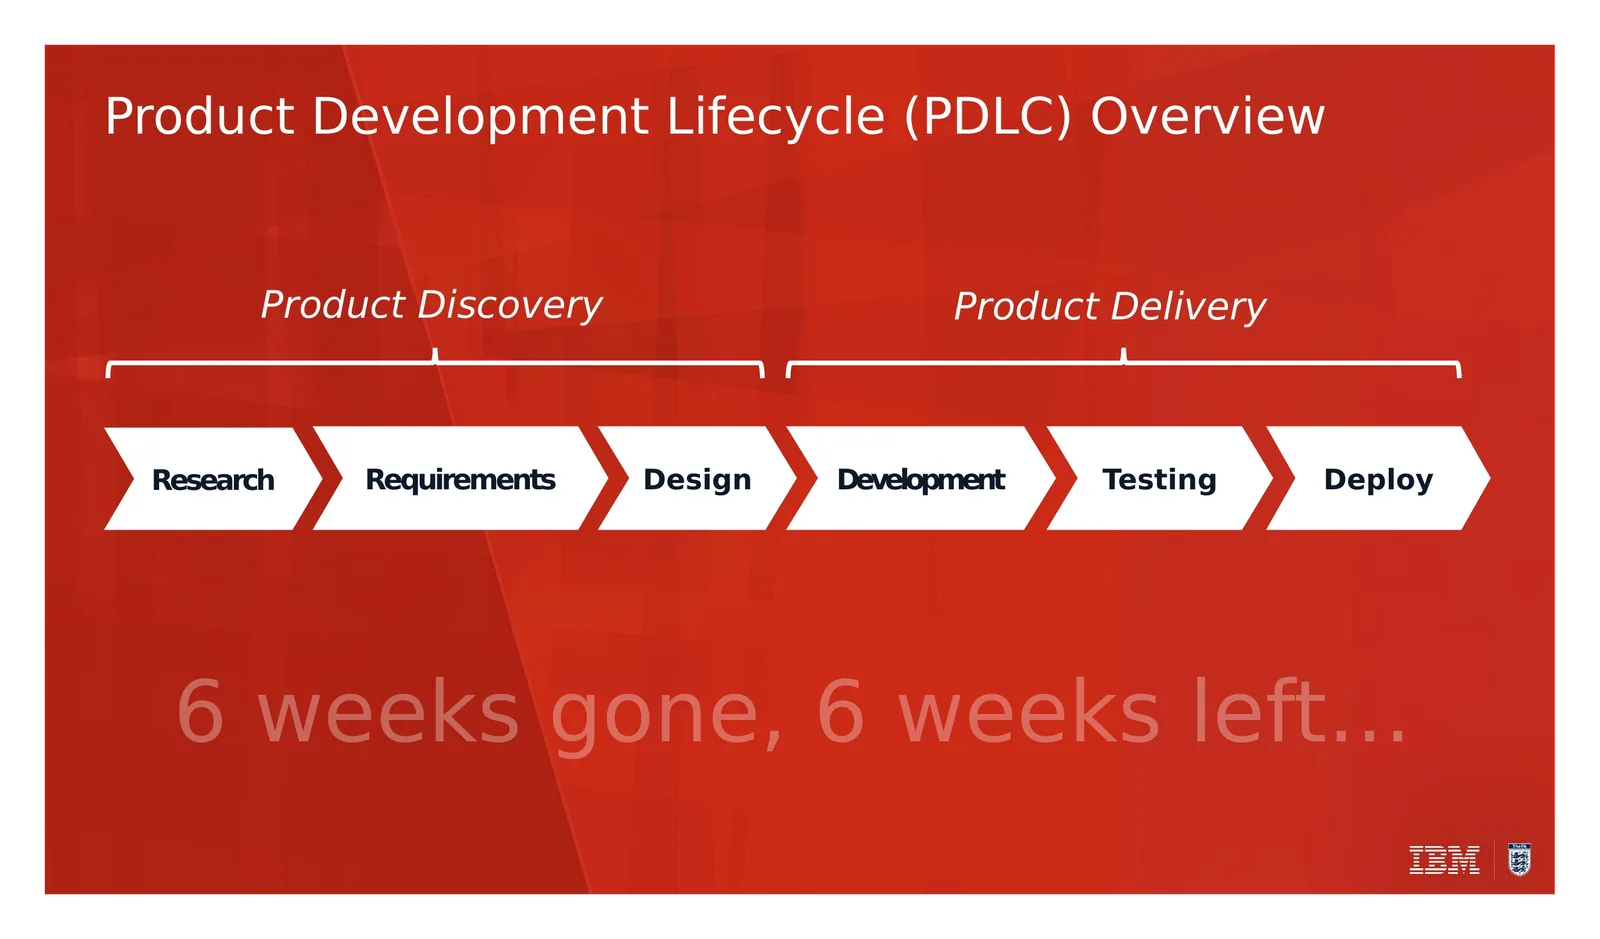
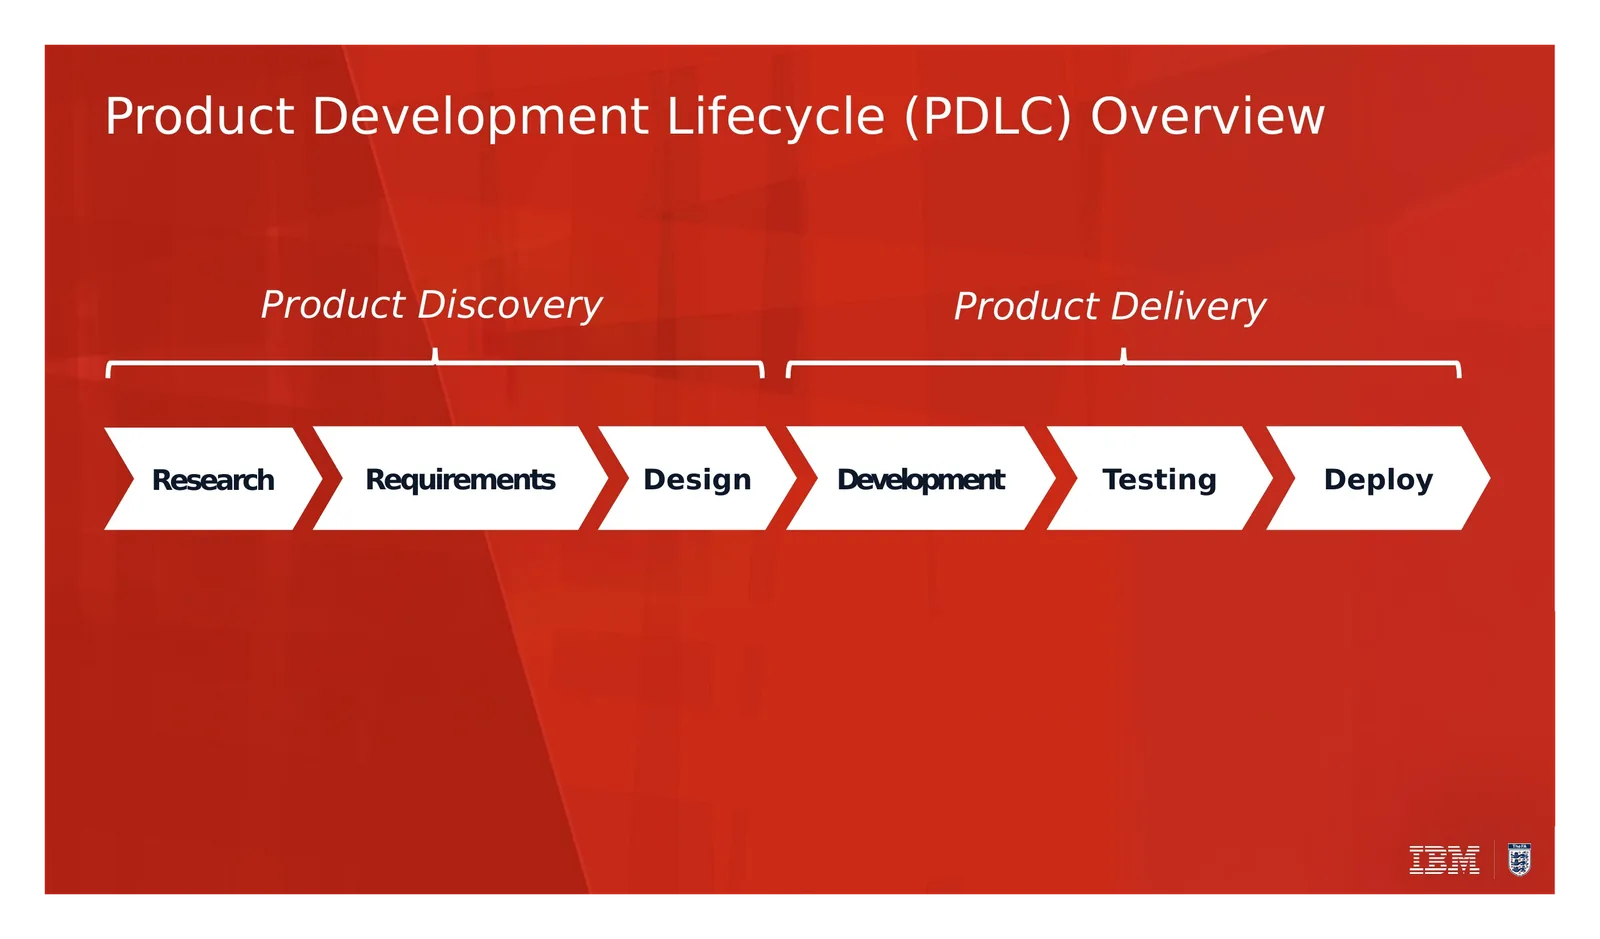
Edit the England Discovery and Approach copy, clean the PDLC slide
- Discovery: drop "and do it well", "keep fans in its own app", and
  the text-to-visual sentence reworded without its closing clause.
- Approach: drop the mock-data paragraph. The wireframe now closes
  Approach after the features paragraph, and the lifecycle gallery moves
  up one with Decisions.
- The PDLC overview slide has its "6 weeks gone, 6 weeks left" caption
  painted out, each side of the background's diagonal edge rebuilt from
  its own pixels so the edge stays sharp.

Changed region(s): [[0.0938, 0.7103, 0.875, 0.803]]

diff --git a/lib/private/case-studies.ts b/lib/private/case-studies.ts
@@ -62,11 +62,10 @@ const privateContent: Record<string, PrivateContent> = {
     date: "Two deliverables in twelve weeks. A toolkit for designing fan products faster, and the England app features proving it worked.",
     body: [
       "The project set out to show what IBM's AI technology could do inside the FA's England football app, measured on fan engagement, retention and commercial outcomes. I was the experience designer on a team of five, alongside a developer, data scientist, business analyst and data analyst, over twelve weeks split between research and delivery.",
-      "I audited the England app against its competitors. Most compete on live data, better stats, results and player detail during a match, and do it well.",
-      "What the FA has is an ecosystem of content strong enough to keep a fan in its own app, and data straight from the pitch that others can't match for accuracy or trust. We used fan personas to decide which features to prioritise around those strengths. Most of that content was text. The key was turning it into visual information, stats for each match and a card for each player, and that decided the two features.",
+      "I audited the England app against its competitors. Most compete on live data, better stats, results and player detail during a match.",
+      "What the FA has is an ecosystem of content strong enough to keep fans in its own app, and data straight from the pitch that others can't match for accuracy or trust. We used fan personas to decide which features to prioritise around those strengths. The most important content the FA had was presented in text formats. The key was turning it into visual information, stats for each match and a card for each player.",
       "Halfway through, the brief changed. What began as building AI features for the app became two things at once. We had to build a reusable agentic toolkit for researching, designing and delivering digital fan products, without losing human oversight. The FA work became the case study proving it worked. I wrote code for some of those agents, including the ones that synthesised research and generated design options.",
       "On the product half I designed two features. A live match centre carries a fan through the game across three tabs: a timeline of key events; a stats panel covering possession, momentum and more; and both teams' lineups. The watsonx powered insights sit in the timeline, with polls and predictions fans take part in as the game runs. A players page gives a reference card for each player to use before, during or after.",
-      "The prototype ran on mock data, so what we demonstrated was the experience rather than the integration.",
       "The brief called for live match data, and the obvious move was to compete on how much of it we could show. That meant fighting on the one front where the FA holds no advantage. We used the live data for participation and insight instead, leaning on what only the FA has.",
       "Building the toolkit and the features at the same time was the harder problem. Each risked bending the other out of shape, so we reworked the project to make the FA features the output of the toolkit rather than a separate track.",
       "IBM leadership were very happy with the final presentation. The work has been handed to another team to continue, with a possibility IBM packages it up and takes it to clients.",
@@ -74,7 +73,7 @@ const privateContent: Record<string, PrivateContent> = {
       "The research was done before the brief changed, so all of it pointed at the app. We shaped the toolkit around a traditional consulting product development lifecycle rather than around how our own teams work, and that's the gap I'd close.",
     ],
     sectionTitles: ["Context", "Discovery", "Approach", "Decisions", "Outcome", "Reflection"],
-    sectionLengths: [1, 2, 3, 2, 2, 1],
+    sectionLengths: [1, 2, 2, 2, 2, 1],
     items: [
       { title: "Context", description: "A twelve-week IBM project to show what its AI could do inside the FA's England app." },
       { title: "Insight", description: "The FA's content was rich but mostly text; making it visual gave fans a reason to stay." },
@@ -94,19 +93,21 @@ const privateContent: Record<string, PrivateContent> = {
         privateImg("england-football-app", "existing-app-05", "England+ member benefits listed as bullet points, above an embedded YouTube video."),
         privateImg("england-football-app", "existing-app-06", "Ticket sale dates, prices and concessions set out as text."),
       ] },
-      // Closing Approach, straight after "The prototype ran on mock data": the
-      // wireframe is that prototype, its live score made up. The finished
-      // screens are the cover, so they are not repeated here.
-      { id: "wireframe", title: "Hi-fi wireframe of the matches tab", afterParagraph: 5, items: [
+      // Closing Approach, straight after the paragraph describing the match
+      // centre, which this screen leads into. The finished screens are the
+      // cover, so they are not repeated here.
+      { id: "wireframe", title: "Hi-fi wireframe of the matches tab", afterParagraph: 4, items: [
         privateImg("england-football-app", "wireframe-01", "Hi-fi wireframe of the matches tab: a live France v England score card leading into the match centre, above upcoming fixtures."),
       ] },
       // The lifecycle the toolkit was designed from, closing Decisions, whose
       // last paragraph makes the features the toolkit's output. In order: the
-      // consulting journey (the gap Reflection names), the halfway point where
-      // the brief changed, and where AI could join each stage.
-      { id: "lifecycle", title: "The lifecycle behind the toolkit", afterParagraph: 7, items: [
+      // consulting journey (the gap Reflection names), the lifecycle split into
+      // discovery and delivery, and where AI could join each stage. The second
+      // slide's "6 weeks gone, 6 weeks left" caption was painted out of the
+      // source before processing.
+      { id: "lifecycle", title: "The lifecycle behind the toolkit", afterParagraph: 6, items: [
         privateImg("england-football-app", "lifecycle-01", "Slide, The long journey of a consultant: a timeline from client brief through understanding the client, research, personas and requirements to design and development."),
-        privateImg("england-football-app", "lifecycle-02", "Slide, Product development lifecycle overview: research, requirements and design as discovery, then development, testing and deploy as delivery, captioned 6 weeks gone, 6 weeks left."),
+        privateImg("england-football-app", "lifecycle-02", "Slide, Product development lifecycle overview: research, requirements and design as discovery, then development, testing and deploy as delivery."),
         privateImg("england-football-app", "lifecycle-03", "Slide, AI assistants and agents across the lifecycle: eight stages from market analysis and benchmarking to feature development, where AI can be added into the loop."),
       ] },
     ],
